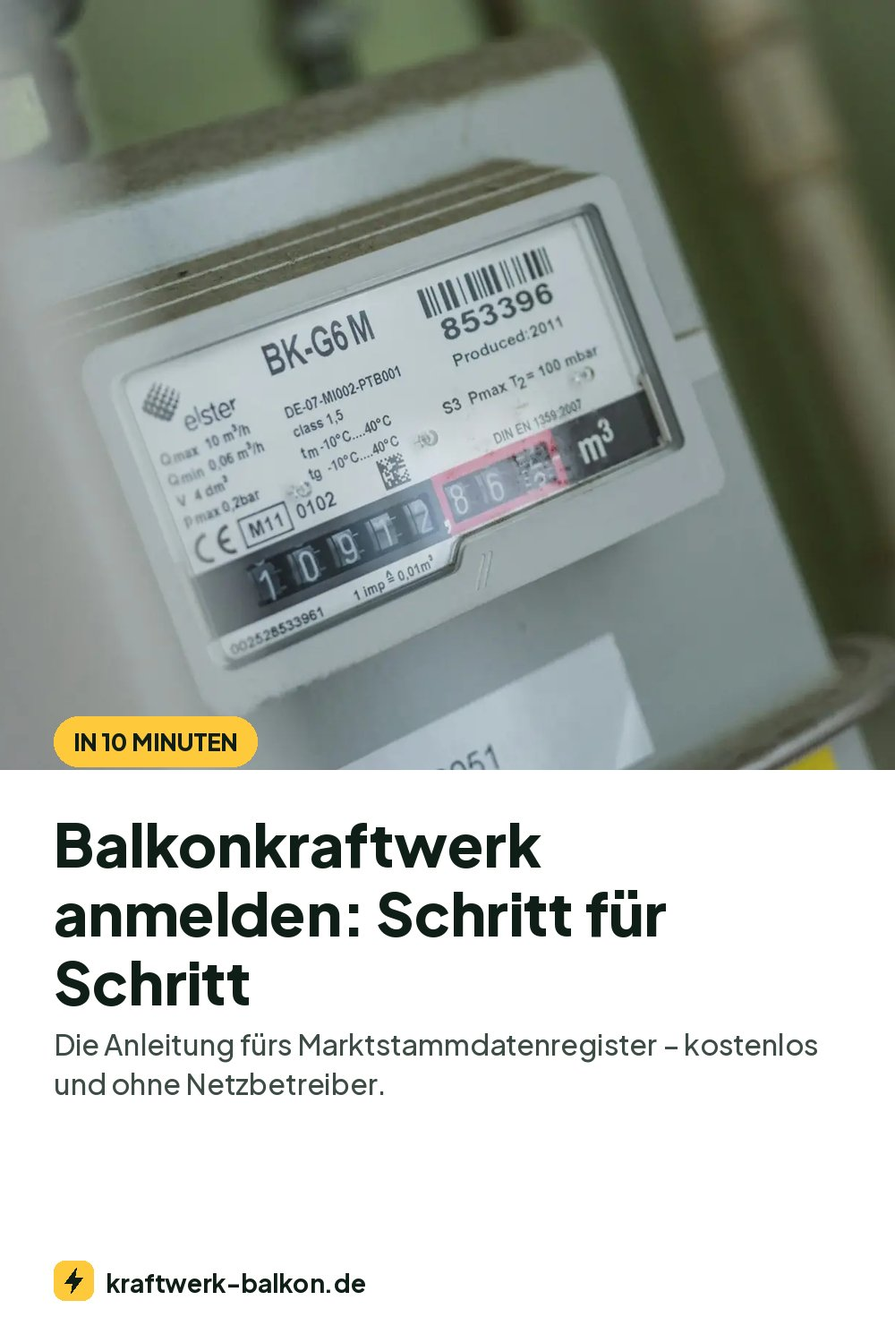
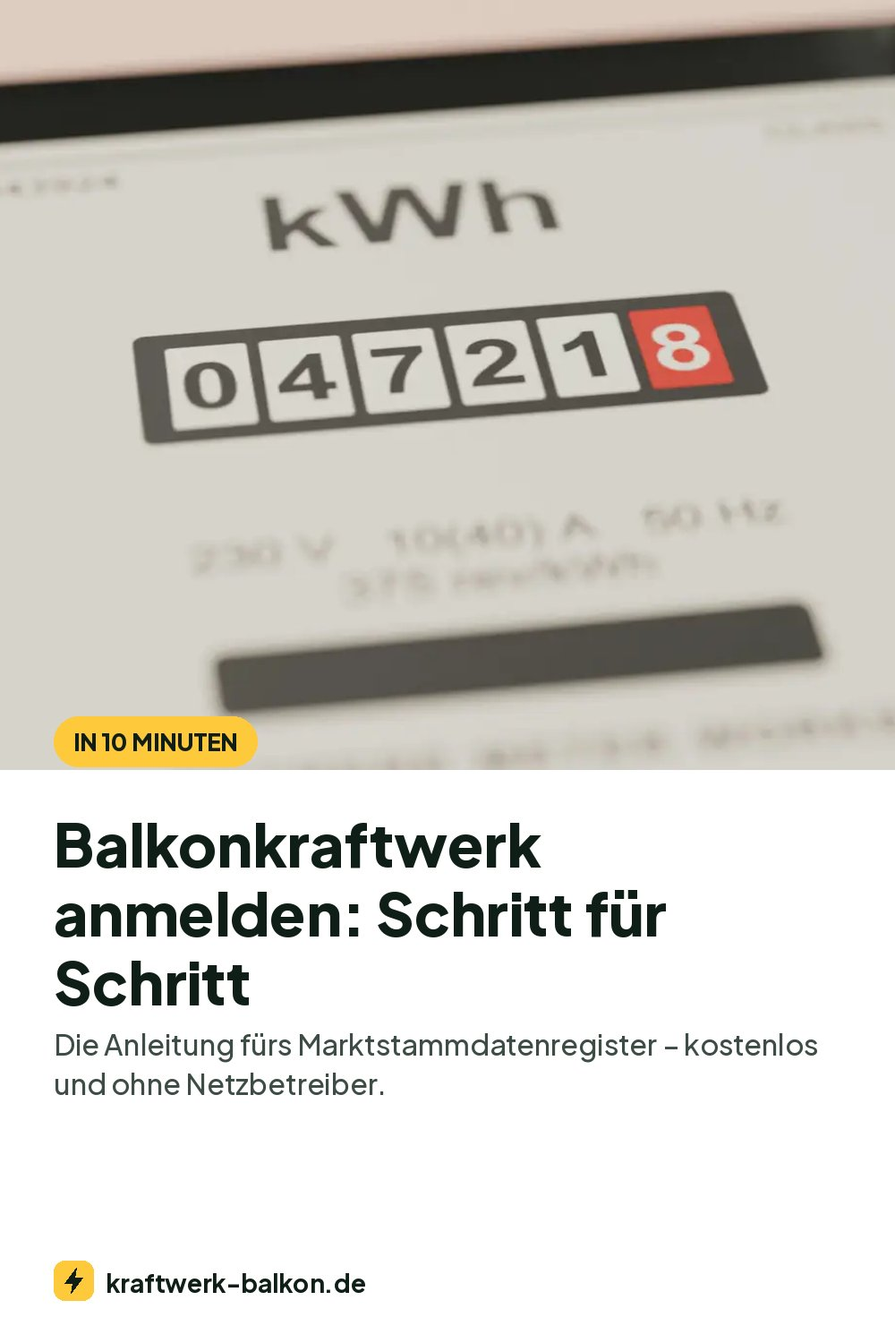
Gaszähler-Foto durch Stromzähler ersetzen; FB-Pin-Tool

diff --git a/ratgeber/balkonkraftwerk-anmelden/index.html b/ratgeber/balkonkraftwerk-anmelden/index.html
@@ -20,7 +20,7 @@
 <meta name="msvalidate.01" content="8213E6D86CA41A88346007C0F8A218E6">
 <link rel="icon" href="/images/favicon.svg" type="image/svg+xml">
 <link rel="preload" href="/fonts/plus-jakarta-sans-latin.woff2" as="font" type="font/woff2" crossorigin>
-<link rel="stylesheet" href="/css/style.css?v=202610292129">
+<link rel="stylesheet" href="/css/style.css?v=202610301719">
 <link rel="alternate" type="application/rss+xml" title="Balkonkraftwerk-News" href="/news/feed.xml">
 <script type="application/ld+json">{"@context": "https://schema.org", "@type": "Article", "headline": "Balkonkraftwerk anmelden 2026: Die MaStR-Anleitung in 10 Minuten", "description": "Balkonkraftwerk anmelden 2026: So registrierst du dein Steckersolargerät im Marktstammdatenregister – kostenlos, in 10 Minuten, ohne Netzbetreiber.", "image": "https://kraftwerk-balkon.de/images/foto/zaehler.webp", "datePublished": "2026-09-28", "dateModified": "2026-10-21", "inLanguage": "de-DE", "author": {"@type": "Person", "name": "Alexander Gerasch", "url": "https://kraftwerk-balkon.de/autor/"}, "publisher": {"@type": "Organization", "name": "Dein Kraftwerk", "url": "https://kraftwerk-balkon.de"}, "mainEntityOfPage": "https://kraftwerk-balkon.de/ratgeber/balkonkraftwerk-anmelden/"}</script>
 <script type="application/ld+json">{"@context": "https://schema.org", "@type": "BreadcrumbList", "itemListElement": [{"@type": "ListItem", "position": 1, "name": "Start", "item": "https://kraftwerk-balkon.de/"}, {"@type": "ListItem", "position": 2, "name": "Ratgeber", "item": "https://kraftwerk-balkon.de/ratgeber/"}, {"@type": "ListItem", "position": 3, "name": "Balkonkraftwerk anmelden 2026: Die MaStR-Anleitung in 10 Minuten", "item": "https://kraftwerk-balkon.de/ratgeber/balkonkraftwerk-anmelden/"}]}</script>
@@ -50,8 +50,8 @@
       <p class="lead">Die Anmeldepflicht schreckt viele ab – zu Unrecht. Die Registrierung im Marktstammdatenregister ist kostenlos, online und in etwa zehn Minuten erledigt. Hier ist der Ablauf, wie er heute gilt.</p>
       <div class="byline"><span class="avatar">AG</span><span><a href="/autor/" class="by-name">Alexander Gerasch</a> <span class="by-cred">· Autor der Buchreihe „Balkonkraftwerk“ (3 Bände)</span><br>veröffentlicht 28. September 2026 · aktualisiert 21. Oktober 2026 · 5 Min. Lesezeit · <a href='#quellen'>6 Quellen</a></span><span class="pill-ok">✓ Rechtsstand geprüft 21. Oktober 2026</span></div>
     </header>
-    <div class="art-hero"><img src="/images/foto/zaehler.webp" srcset="/images/foto/zaehler-800.webp 800w, /images/foto/zaehler.webp 1400w" sizes="(max-width: 1200px) 100vw, 1160px" width="1400" height="1050" alt="Digitaler Stromzähler" fetchpriority="high"></div>
-    <p class="credit">Foto: <a href="https://unsplash.com/de/fotos/text-Rlq0iN1b3Lg" target="_blank" rel="noopener">Unsplash</a></p>
+    <div class="art-hero"><img src="/images/foto/zaehler.webp" srcset="/images/foto/zaehler-800.webp 800w, /images/foto/zaehler.webp 1400w" sizes="(max-width: 1200px) 100vw, 1160px" width="1400" height="788" alt="Stromzähler mit kWh-Anzeige" fetchpriority="high"></div>
+    <p class="credit">Foto: <a href="https://unsplash.com/de/fotos/stromzahleranzeige-mit-kwh-zahlen-6cK-O-ac6Vs" target="_blank" rel="noopener">Unsplash</a></p>
     <div class="art-grid">
       <div class="prose">
         <p class="disclosure">Transparenz: Dieser Artikel enthält Affiliate-Links (mit „Anzeige“ markiert). Kaufst du darüber, erhalte ich eine kleine Provision – der Preis bleibt für dich gleich. Empfehlungen sind davon unabhängig.</p>
@@ -215,7 +215,7 @@
         <li><a href="/impressum/">Impressum</a></li>
         <li><a href="/datenschutz/">Datenschutz</a></li></ul></div>
     </div>
-    <div class="f-bottom"><span>© 2026 Alexander Gerasch · Fotos: Unsplash</span><span>Zuletzt aktualisiert: 29. Oktober 2026</span></div>
+    <div class="f-bottom"><span>© 2026 Alexander Gerasch · Fotos: Unsplash</span><span>Zuletzt aktualisiert: 30. Oktober 2026</span></div>
   </div>
 </footer>
 </body>

diff --git a/ratgeber/balkonkraftwerk-regeln-2026/index.html b/ratgeber/balkonkraftwerk-regeln-2026/index.html
@@ -20,7 +20,7 @@
 <meta name="msvalidate.01" content="8213E6D86CA41A88346007C0F8A218E6">
 <link rel="icon" href="/images/favicon.svg" type="image/svg+xml">
 <link rel="preload" href="/fonts/plus-jakarta-sans-latin.woff2" as="font" type="font/woff2" crossorigin>
-<link rel="stylesheet" href="/css/style.css?v=202610292129">
+<link rel="stylesheet" href="/css/style.css?v=202610301719">
 <link rel="alternate" type="application/rss+xml" title="Balkonkraftwerk-News" href="/news/feed.xml">
 <script type="application/ld+json">{"@context": "https://schema.org", "@type": "Article", "headline": "Balkonkraftwerk-Regeln 2026: Alles, was jetzt gilt", "description": "Die Balkonkraftwerk-Regeln 2026 auf einen Blick: 800 W und 2.000 Wp, Schuko-Norm DIN VDE V 0126-95, Anmeldung, Zähler, Mietrecht und Steuern – verständlich erklärt.", "image": "https://kraftwerk-balkon.de/images/foto/himmel.webp", "datePublished": "2026-10-16", "dateModified": "2026-10-21", "inLanguage": "de-DE", "author": {"@type": "Person", "name": "Alexander Gerasch", "url": "https://kraftwerk-balkon.de/autor/"}, "publisher": {"@type": "Organization", "name": "Dein Kraftwerk", "url": "https://kraftwerk-balkon.de"}, "mainEntityOfPage": "https://kraftwerk-balkon.de/ratgeber/balkonkraftwerk-regeln-2026/"}</script>
 <script type="application/ld+json">{"@context": "https://schema.org", "@type": "BreadcrumbList", "itemListElement": [{"@type": "ListItem", "position": 1, "name": "Start", "item": "https://kraftwerk-balkon.de/"}, {"@type": "ListItem", "position": 2, "name": "Ratgeber", "item": "https://kraftwerk-balkon.de/ratgeber/"}, {"@type": "ListItem", "position": 3, "name": "Balkonkraftwerk-Regeln 2026: Alles, was jetzt gilt", "item": "https://kraftwerk-balkon.de/ratgeber/balkonkraftwerk-regeln-2026/"}]}</script>
@@ -181,7 +181,7 @@
     </div>
   </div>
   <section class="sec sec-soft" style="margin-top:72px"><div class="wrap"><div class="sec-head"><h2>Weiterlesen</h2><a href="/ratgeber/" class="btn btn-ghost btn-sm">Alle Ratgeber <span class="arr">→</span></a></div><div class="cards"><a class="acard" href="/ratgeber/balkonkraftwerk-anmelden/">
-  <div class="thumb"><img src="/images/foto/zaehler.webp" srcset="/images/foto/zaehler-800.webp 800w, /images/foto/zaehler.webp 1400w" sizes="(max-width: 620px) 100vw, (max-width: 960px) 50vw, 380px" width="1400" height="1050" alt="Balkonkraftwerk anmelden 2026: Die MaStR-Anleitung in 10 Minuten" loading="lazy" decoding="async"></div>
+  <div class="thumb"><img src="/images/foto/zaehler.webp" srcset="/images/foto/zaehler-800.webp 800w, /images/foto/zaehler.webp 1400w" sizes="(max-width: 620px) 100vw, (max-width: 960px) 50vw, 380px" width="1400" height="788" alt="Balkonkraftwerk anmelden 2026: Die MaStR-Anleitung in 10 Minuten" loading="lazy" decoding="async"></div>
   <div class="body">
     <span class="kicker">Grundlagen &amp; Recht</span>
     <strong>Balkonkraftwerk anmelden 2026: Die MaStR-Anleitung in 10 Minuten</strong>
@@ -236,7 +236,7 @@
         <li><a href="/impressum/">Impressum</a></li>
         <li><a href="/datenschutz/">Datenschutz</a></li></ul></div>
     </div>
-    <div class="f-bottom"><span>© 2026 Alexander Gerasch · Fotos: Unsplash</span><span>Zuletzt aktualisiert: 29. Oktober 2026</span></div>
+    <div class="f-bottom"><span>© 2026 Alexander Gerasch · Fotos: Unsplash</span><span>Zuletzt aktualisiert: 30. Oktober 2026</span></div>
   </div>
 </footer>
 </body>

diff --git a/ratgeber/balkonkraftwerk-mieter-vermieter/index.html b/ratgeber/balkonkraftwerk-mieter-vermieter/index.html
@@ -20,7 +20,7 @@
 <meta name="msvalidate.01" content="8213E6D86CA41A88346007C0F8A218E6">
 <link rel="icon" href="/images/favicon.svg" type="image/svg+xml">
 <link rel="preload" href="/fonts/plus-jakarta-sans-latin.woff2" as="font" type="font/woff2" crossorigin>
-<link rel="stylesheet" href="/css/style.css?v=202610292129">
+<link rel="stylesheet" href="/css/style.css?v=202610301719">
 <link rel="alternate" type="application/rss+xml" title="Balkonkraftwerk-News" href="/news/feed.xml">
 <script type="application/ld+json">{"@context": "https://schema.org", "@type": "Article", "headline": "Balkonkraftwerk als Mieter: Deine Rechte und wie du den Vermieter fragst", "description": "Balkonkraftwerk als Mieter: Seit 2024 hast du einen Anspruch. Welche Auflagen der Vermieter machen darf, was veraltet ist – mit Vorlage und Urteilen.", "image": "https://kraftwerk-balkon.de/images/foto/mieter.webp", "datePublished": "2026-10-16", "dateModified": "2026-10-27", "inLanguage": "de-DE", "author": {"@type": "Person", "name": "Alexander Gerasch", "url": "https://kraftwerk-balkon.de/autor/"}, "publisher": {"@type": "Organization", "name": "Dein Kraftwerk", "url": "https://kraftwerk-balkon.de"}, "mainEntityOfPage": "https://kraftwerk-balkon.de/ratgeber/balkonkraftwerk-mieter-vermieter/"}</script>
 <script type="application/ld+json">{"@context": "https://schema.org", "@type": "BreadcrumbList", "itemListElement": [{"@type": "ListItem", "position": 1, "name": "Start", "item": "https://kraftwerk-balkon.de/"}, {"@type": "ListItem", "position": 2, "name": "Ratgeber", "item": "https://kraftwerk-balkon.de/ratgeber/"}, {"@type": "ListItem", "position": 3, "name": "Balkonkraftwerk als Mieter: Deine Rechte und wie du den Vermieter fragst", "item": "https://kraftwerk-balkon.de/ratgeber/balkonkraftwerk-mieter-vermieter/"}]}</script>
@@ -190,7 +190,7 @@
     <span class="meta"><span class="ok">✓ Stand Oktober 2026</span><span>3 Min.</span></span>
   </div>
 </a><a class="acard" href="/ratgeber/balkonkraftwerk-anmelden/">
-  <div class="thumb"><img src="/images/foto/zaehler.webp" srcset="/images/foto/zaehler-800.webp 800w, /images/foto/zaehler.webp 1400w" sizes="(max-width: 620px) 100vw, (max-width: 960px) 50vw, 380px" width="1400" height="1050" alt="Balkonkraftwerk anmelden 2026: Die MaStR-Anleitung in 10 Minuten" loading="lazy" decoding="async"></div>
+  <div class="thumb"><img src="/images/foto/zaehler.webp" srcset="/images/foto/zaehler-800.webp 800w, /images/foto/zaehler.webp 1400w" sizes="(max-width: 620px) 100vw, (max-width: 960px) 50vw, 380px" width="1400" height="788" alt="Balkonkraftwerk anmelden 2026: Die MaStR-Anleitung in 10 Minuten" loading="lazy" decoding="async"></div>
   <div class="body">
     <span class="kicker">Grundlagen &amp; Recht</span>
     <strong>Balkonkraftwerk anmelden 2026: Die MaStR-Anleitung in 10 Minuten</strong>
@@ -229,7 +229,7 @@
         <li><a href="/impressum/">Impressum</a></li>
         <li><a href="/datenschutz/">Datenschutz</a></li></ul></div>
     </div>
-    <div class="f-bottom"><span>© 2026 Alexander Gerasch · Fotos: Unsplash</span><span>Zuletzt aktualisiert: 29. Oktober 2026</span></div>
+    <div class="f-bottom"><span>© 2026 Alexander Gerasch · Fotos: Unsplash</span><span>Zuletzt aktualisiert: 30. Oktober 2026</span></div>
   </div>
 </footer>
 </body>

diff --git a/ratgeber/balkonkraftwerk-speicher-lohnt-sich/index.html b/ratgeber/balkonkraftwerk-speicher-lohnt-sich/index.html
@@ -20,7 +20,7 @@
 <meta name="msvalidate.01" content="8213E6D86CA41A88346007C0F8A218E6">
 <link rel="icon" href="/images/favicon.svg" type="image/svg+xml">
 <link rel="preload" href="/fonts/plus-jakarta-sans-latin.woff2" as="font" type="font/woff2" crossorigin>
-<link rel="stylesheet" href="/css/style.css?v=202610292129">
+<link rel="stylesheet" href="/css/style.css?v=202610301719">
 <link rel="alternate" type="application/rss+xml" title="Balkonkraftwerk-News" href="/news/feed.xml">
 <script type="application/ld+json">{"@context": "https://schema.org", "@type": "Article", "headline": "Balkonkraftwerk mit Speicher: Lohnt sich der Akku 2026?", "description": "Lohnt sich ein Speicher fürs Balkonkraftwerk? Ehrliche Rechnung, AC- oder DC-gekoppelt, Nulleinspeisung, Regeln und für wen sich der Akku wirklich rechnet.", "image": "https://kraftwerk-balkon.de/images/foto/speicher.webp", "datePublished": "2026-10-16", "dateModified": "2026-10-21", "inLanguage": "de-DE", "author": {"@type": "Person", "name": "Alexander Gerasch", "url": "https://kraftwerk-balkon.de/autor/"}, "publisher": {"@type": "Organization", "name": "Dein Kraftwerk", "url": "https://kraftwerk-balkon.de"}, "mainEntityOfPage": "https://kraftwerk-balkon.de/ratgeber/balkonkraftwerk-speicher-lohnt-sich/"}</script>
 <script type="application/ld+json">{"@context": "https://schema.org", "@type": "BreadcrumbList", "itemListElement": [{"@type": "ListItem", "position": 1, "name": "Start", "item": "https://kraftwerk-balkon.de/"}, {"@type": "ListItem", "position": 2, "name": "Ratgeber", "item": "https://kraftwerk-balkon.de/ratgeber/"}, {"@type": "ListItem", "position": 3, "name": "Balkonkraftwerk mit Speicher: Lohnt sich der Akku 2026?", "item": "https://kraftwerk-balkon.de/ratgeber/balkonkraftwerk-speicher-lohnt-sich/"}]}</script>
@@ -192,7 +192,7 @@
     <span class="meta"><span class="ok">✓ Stand Oktober 2026</span><span>3 Min.</span></span>
   </div>
 </a><a class="acard" href="/ratgeber/balkonkraftwerk-anmelden/">
-  <div class="thumb"><img src="/images/foto/zaehler.webp" srcset="/images/foto/zaehler-800.webp 800w, /images/foto/zaehler.webp 1400w" sizes="(max-width: 620px) 100vw, (max-width: 960px) 50vw, 380px" width="1400" height="1050" alt="Balkonkraftwerk anmelden 2026: Die MaStR-Anleitung in 10 Minuten" loading="lazy" decoding="async"></div>
+  <div class="thumb"><img src="/images/foto/zaehler.webp" srcset="/images/foto/zaehler-800.webp 800w, /images/foto/zaehler.webp 1400w" sizes="(max-width: 620px) 100vw, (max-width: 960px) 50vw, 380px" width="1400" height="788" alt="Balkonkraftwerk anmelden 2026: Die MaStR-Anleitung in 10 Minuten" loading="lazy" decoding="async"></div>
   <div class="body">
     <span class="kicker">Grundlagen &amp; Recht</span>
     <strong>Balkonkraftwerk anmelden 2026: Die MaStR-Anleitung in 10 Minuten</strong>
@@ -231,7 +231,7 @@
         <li><a href="/impressum/">Impressum</a></li>
         <li><a href="/datenschutz/">Datenschutz</a></li></ul></div>
     </div>
-    <div class="f-bottom"><span>© 2026 Alexander Gerasch · Fotos: Unsplash</span><span>Zuletzt aktualisiert: 29. Oktober 2026</span></div>
+    <div class="f-bottom"><span>© 2026 Alexander Gerasch · Fotos: Unsplash</span><span>Zuletzt aktualisiert: 30. Oktober 2026</span></div>
   </div>
 </footer>
 </body>

diff --git a/ratgeber/balkonkraftwerk-halterung-selber-bauen/index.html b/ratgeber/balkonkraftwerk-halterung-selber-bauen/index.html
@@ -20,7 +20,7 @@
 <meta name="msvalidate.01" content="8213E6D86CA41A88346007C0F8A218E6">
 <link rel="icon" href="/images/favicon.svg" type="image/svg+xml">
 <link rel="preload" href="/fonts/plus-jakarta-sans-latin.woff2" as="font" type="font/woff2" crossorigin>
-<link rel="stylesheet" href="/css/style.css?v=202610292129">
+<link rel="stylesheet" href="/css/style.css?v=202610301719">
 <link rel="alternate" type="application/rss+xml" title="Balkonkraftwerk-News" href="/news/feed.xml">
 <script type="application/ld+json">{"@context": "https://schema.org", "@type": "Article", "headline": "Balkonkraftwerk-Halterung selber bauen: Was sicher geht – und was nicht", "description": "Balkonkraftwerk-Halterung selber bauen für Geländer, Wand oder Flachdach: Was erlaubt ist, wo die Risiken liegen und wann du besser ein fertiges System kaufst.", "image": "https://kraftwerk-balkon.de/images/foto/montage.webp", "datePublished": "2026-10-19", "dateModified": "2026-10-19", "inLanguage": "de-DE", "author": {"@type": "Person", "name": "Alexander Gerasch", "url": "https://kraftwerk-balkon.de/autor/"}, "publisher": {"@type": "Organization", "name": "Dein Kraftwerk", "url": "https://kraftwerk-balkon.de"}, "mainEntityOfPage": "https://kraftwerk-balkon.de/ratgeber/balkonkraftwerk-halterung-selber-bauen/"}</script>
 <script type="application/ld+json">{"@context": "https://schema.org", "@type": "BreadcrumbList", "itemListElement": [{"@type": "ListItem", "position": 1, "name": "Start", "item": "https://kraftwerk-balkon.de/"}, {"@type": "ListItem", "position": 2, "name": "Ratgeber", "item": "https://kraftwerk-balkon.de/ratgeber/"}, {"@type": "ListItem", "position": 3, "name": "Balkonkraftwerk-Halterung selber bauen: Was sicher geht – und was nicht", "item": "https://kraftwerk-balkon.de/ratgeber/balkonkraftwerk-halterung-selber-bauen/"}]}</script>
@@ -210,7 +210,7 @@
         <li><a href="/impressum/">Impressum</a></li>
         <li><a href="/datenschutz/">Datenschutz</a></li></ul></div>
     </div>
-    <div class="f-bottom"><span>© 2026 Alexander Gerasch · Fotos: Unsplash</span><span>Zuletzt aktualisiert: 29. Oktober 2026</span></div>
+    <div class="f-bottom"><span>© 2026 Alexander Gerasch · Fotos: Unsplash</span><span>Zuletzt aktualisiert: 30. Oktober 2026</span></div>
   </div>
 </footer>
 </body>

diff --git a/ratgeber/balkonkraftwerk-smart-home-einstieg/index.html b/ratgeber/balkonkraftwerk-smart-home-einstieg/index.html
@@ -20,7 +20,7 @@
 <meta name="msvalidate.01" content="8213E6D86CA41A88346007C0F8A218E6">
 <link rel="icon" href="/images/favicon.svg" type="image/svg+xml">
 <link rel="preload" href="/fonts/plus-jakarta-sans-latin.woff2" as="font" type="font/woff2" crossorigin>
-<link rel="stylesheet" href="/css/style.css?v=202610292129">
+<link rel="stylesheet" href="/css/style.css?v=202610301719">
 <link rel="alternate" type="application/rss+xml" title="Balkonkraftwerk-News" href="/news/feed.xml">
 <script type="application/ld+json">{"@context": "https://schema.org", "@type": "Article", "headline": "Balkonkraftwerk und Smart Home: Der Einstieg mit Shelly und Home Assistant", "description": "Mehr Eigenverbrauch durch Automatisierung: So steuerst du Geräte nach Solarstrom – vom einfachen Shelly-Zeitplan bis Home Assistant und dynamischem Stromtarif.", "image": "https://kraftwerk-balkon.de/images/foto/smarthome.webp", "datePublished": "2026-10-16", "dateModified": "2026-10-16", "inLanguage": "de-DE", "author": {"@type": "Person", "name": "Alexander Gerasch", "url": "https://kraftwerk-balkon.de/autor/"}, "publisher": {"@type": "Organization", "name": "Dein Kraftwerk", "url": "https://kraftwerk-balkon.de"}, "mainEntityOfPage": "https://kraftwerk-balkon.de/ratgeber/balkonkraftwerk-smart-home-einstieg/"}</script>
 <script type="application/ld+json">{"@context": "https://schema.org", "@type": "BreadcrumbList", "itemListElement": [{"@type": "ListItem", "position": 1, "name": "Start", "item": "https://kraftwerk-balkon.de/"}, {"@type": "ListItem", "position": 2, "name": "Ratgeber", "item": "https://kraftwerk-balkon.de/ratgeber/"}, {"@type": "ListItem", "position": 3, "name": "Balkonkraftwerk und Smart Home: Der Einstieg mit Shelly und Home Assistant", "item": "https://kraftwerk-balkon.de/ratgeber/balkonkraftwerk-smart-home-einstieg/"}]}</script>
@@ -183,7 +183,7 @@
         <li><a href="/impressum/">Impressum</a></li>
         <li><a href="/datenschutz/">Datenschutz</a></li></ul></div>
     </div>
-    <div class="f-bottom"><span>© 2026 Alexander Gerasch · Fotos: Unsplash</span><span>Zuletzt aktualisiert: 29. Oktober 2026</span></div>
+    <div class="f-bottom"><span>© 2026 Alexander Gerasch · Fotos: Unsplash</span><span>Zuletzt aktualisiert: 30. Oktober 2026</span></div>
   </div>
 </footer>
 </body>

diff --git a/ratgeber/balkonkraftwerk-foerderung-2026/index.html b/ratgeber/balkonkraftwerk-foerderung-2026/index.html
@@ -20,7 +20,7 @@
 <meta name="msvalidate.01" content="8213E6D86CA41A88346007C0F8A218E6">
 <link rel="icon" href="/images/favicon.svg" type="image/svg+xml">
 <link rel="preload" href="/fonts/plus-jakarta-sans-latin.woff2" as="font" type="font/woff2" crossorigin>
-<link rel="stylesheet" href="/css/style.css?v=202610292129">
+<link rel="stylesheet" href="/css/style.css?v=202610301719">
 <link rel="alternate" type="application/rss+xml" title="Balkonkraftwerk-News" href="/news/feed.xml">
 <script type="application/ld+json">{"@context": "https://schema.org", "@type": "Article", "headline": "Balkonkraftwerk-Förderung 2026: Was es noch gibt – und was ausgelaufen ist", "description": "Balkonkraftwerk-Förderung 2026: Viele Programme sind ausgelaufen (Berlin, Sachsen). Was noch gilt, wo du suchen solltest und warum der Antrag vor dem Kauf zählt.", "image": "https://kraftwerk-balkon.de/images/foto/blumen.webp", "datePublished": "2026-10-16", "dateModified": "2026-10-26", "inLanguage": "de-DE", "author": {"@type": "Person", "name": "Alexander Gerasch", "url": "https://kraftwerk-balkon.de/autor/"}, "publisher": {"@type": "Organization", "name": "Dein Kraftwerk", "url": "https://kraftwerk-balkon.de"}, "mainEntityOfPage": "https://kraftwerk-balkon.de/ratgeber/balkonkraftwerk-foerderung-2026/"}</script>
 <script type="application/ld+json">{"@context": "https://schema.org", "@type": "BreadcrumbList", "itemListElement": [{"@type": "ListItem", "position": 1, "name": "Start", "item": "https://kraftwerk-balkon.de/"}, {"@type": "ListItem", "position": 2, "name": "Ratgeber", "item": "https://kraftwerk-balkon.de/ratgeber/"}, {"@type": "ListItem", "position": 3, "name": "Balkonkraftwerk-Förderung 2026: Was es noch gibt – und was ausgelaufen ist", "item": "https://kraftwerk-balkon.de/ratgeber/balkonkraftwerk-foerderung-2026/"}]}</script>
@@ -213,7 +213,7 @@
         <li><a href="/impressum/">Impressum</a></li>
         <li><a href="/datenschutz/">Datenschutz</a></li></ul></div>
     </div>
-    <div class="f-bottom"><span>© 2026 Alexander Gerasch · Fotos: Unsplash</span><span>Zuletzt aktualisiert: 29. Oktober 2026</span></div>
+    <div class="f-bottom"><span>© 2026 Alexander Gerasch · Fotos: Unsplash</span><span>Zuletzt aktualisiert: 30. Oktober 2026</span></div>
   </div>
 </footer>
 </body>

diff --git a/ratgeber/balkonkraftwerk-ausrichtung-ertrag/index.html b/ratgeber/balkonkraftwerk-ausrichtung-ertrag/index.html
@@ -20,7 +20,7 @@
 <meta name="msvalidate.01" content="8213E6D86CA41A88346007C0F8A218E6">
 <link rel="icon" href="/images/favicon.svg" type="image/svg+xml">
 <link rel="preload" href="/fonts/plus-jakarta-sans-latin.woff2" as="font" type="font/woff2" crossorigin>
-<link rel="stylesheet" href="/css/style.css?v=202610292129">
+<link rel="stylesheet" href="/css/style.css?v=202610301719">
 <link rel="alternate" type="application/rss+xml" title="Balkonkraftwerk-News" href="/news/feed.xml">
 <script type="application/ld+json">{"@context": "https://schema.org", "@type": "Article", "headline": "Ausrichtung und Neigung: So holst du mehr Ertrag aus deinem Balkonkraftwerk", "description": "Süd, Ost-West oder senkrecht? Wie Ausrichtung, Neigung und Verschattung den Ertrag deines Balkonkraftwerks beeinflussen – mit Richtwerten und Praxistipps.", "image": "https://kraftwerk-balkon.de/images/foto/flachdach.webp", "datePublished": "2026-10-16", "dateModified": "2026-10-26", "inLanguage": "de-DE", "author": {"@type": "Person", "name": "Alexander Gerasch", "url": "https://kraftwerk-balkon.de/autor/"}, "publisher": {"@type": "Organization", "name": "Dein Kraftwerk", "url": "https://kraftwerk-balkon.de"}, "mainEntityOfPage": "https://kraftwerk-balkon.de/ratgeber/balkonkraftwerk-ausrichtung-ertrag/"}</script>
 <script type="application/ld+json">{"@context": "https://schema.org", "@type": "BreadcrumbList", "itemListElement": [{"@type": "ListItem", "position": 1, "name": "Start", "item": "https://kraftwerk-balkon.de/"}, {"@type": "ListItem", "position": 2, "name": "Ratgeber", "item": "https://kraftwerk-balkon.de/ratgeber/"}, {"@type": "ListItem", "position": 3, "name": "Ausrichtung und Neigung: So holst du mehr Ertrag aus deinem Balkonkraftwerk", "item": "https://kraftwerk-balkon.de/ratgeber/balkonkraftwerk-ausrichtung-ertrag/"}]}</script>
@@ -188,7 +188,7 @@
         <li><a href="/impressum/">Impressum</a></li>
         <li><a href="/datenschutz/">Datenschutz</a></li></ul></div>
     </div>
-    <div class="f-bottom"><span>© 2026 Alexander Gerasch · Fotos: Unsplash</span><span>Zuletzt aktualisiert: 29. Oktober 2026</span></div>
+    <div class="f-bottom"><span>© 2026 Alexander Gerasch · Fotos: Unsplash</span><span>Zuletzt aktualisiert: 30. Oktober 2026</span></div>
   </div>
 </footer>
 </body>

diff --git a/ratgeber/balkonkraftwerk-im-garten/index.html b/ratgeber/balkonkraftwerk-im-garten/index.html
@@ -20,7 +20,7 @@
 <meta name="msvalidate.01" content="8213E6D86CA41A88346007C0F8A218E6">
 <link rel="icon" href="/images/favicon.svg" type="image/svg+xml">
 <link rel="preload" href="/fonts/plus-jakarta-sans-latin.woff2" as="font" type="font/woff2" crossorigin>
-<link rel="stylesheet" href="/css/style.css?v=202610292129">
+<link rel="stylesheet" href="/css/style.css?v=202610301719">
 <link rel="alternate" type="application/rss+xml" title="Balkonkraftwerk-News" href="/news/feed.xml">
 <script type="application/ld+json">{"@context": "https://schema.org", "@type": "Article", "headline": "Balkonkraftwerk im Garten aufstellen: Aufständerung, Kabel, Regeln", "description": "Balkonkraftwerk im Garten aufstellen: Welche Neigung sinnvoll ist, wie du Kabel sicher zur Steckdose führst, ob du eine Genehmigung brauchst und was bei Wind gilt.", "image": "https://kraftwerk-balkon.de/images/foto/garten.webp", "datePublished": "2026-10-26", "dateModified": "2026-10-26", "inLanguage": "de-DE", "author": {"@type": "Person", "name": "Alexander Gerasch", "url": "https://kraftwerk-balkon.de/autor/"}, "publisher": {"@type": "Organization", "name": "Dein Kraftwerk", "url": "https://kraftwerk-balkon.de"}, "mainEntityOfPage": "https://kraftwerk-balkon.de/ratgeber/balkonkraftwerk-im-garten/"}</script>
 <script type="application/ld+json">{"@context": "https://schema.org", "@type": "BreadcrumbList", "itemListElement": [{"@type": "ListItem", "position": 1, "name": "Start", "item": "https://kraftwerk-balkon.de/"}, {"@type": "ListItem", "position": 2, "name": "Ratgeber", "item": "https://kraftwerk-balkon.de/ratgeber/"}, {"@type": "ListItem", "position": 3, "name": "Balkonkraftwerk im Garten aufstellen: Aufständerung, Kabel, Regeln", "item": "https://kraftwerk-balkon.de/ratgeber/balkonkraftwerk-im-garten/"}]}</script>
@@ -225,7 +225,7 @@
         <li><a href="/impressum/">Impressum</a></li>
         <li><a href="/datenschutz/">Datenschutz</a></li></ul></div>
     </div>
-    <div class="f-bottom"><span>© 2026 Alexander Gerasch · Fotos: Unsplash</span><span>Zuletzt aktualisiert: 29. Oktober 2026</span></div>
+    <div class="f-bottom"><span>© 2026 Alexander Gerasch · Fotos: Unsplash</span><span>Zuletzt aktualisiert: 30. Oktober 2026</span></div>
   </div>
 </footer>
 </body>

diff --git a/ratgeber/balkonkraftwerk-kaufen-checkliste/index.html b/ratgeber/balkonkraftwerk-kaufen-checkliste/index.html
@@ -20,7 +20,7 @@
 <meta name="msvalidate.01" content="8213E6D86CA41A88346007C0F8A218E6">
 <link rel="icon" href="/images/favicon.svg" type="image/svg+xml">
 <link rel="preload" href="/fonts/plus-jakarta-sans-latin.woff2" as="font" type="font/woff2" crossorigin>
-<link rel="stylesheet" href="/css/style.css?v=202610292129">
+<link rel="stylesheet" href="/css/style.css?v=202610301719">
 <link rel="alternate" type="application/rss+xml" title="Balkonkraftwerk-News" href="/news/feed.xml">
 <script type="application/ld+json">{"@context": "https://schema.org", "@type": "Article", "headline": "Balkonkraftwerk kaufen: Die Checkliste mit 10 Punkten", "description": "Balkonkraftwerk kaufen 2026: 10 Punkte, auf die du vor dem Kauf achten solltest: Leistung, Stecker, Wechselrichter, Halterung, Speicher und typische Fehlkäufe.", "image": "https://kraftwerk-balkon.de/images/foto/balkon2.webp", "datePublished": "2026-10-16", "dateModified": "2026-10-26", "inLanguage": "de-DE", "author": {"@type": "Person", "name": "Alexander Gerasch", "url": "https://kraftwerk-balkon.de/autor/"}, "publisher": {"@type": "Organization", "name": "Dein Kraftwerk", "url": "https://kraftwerk-balkon.de"}, "mainEntityOfPage": "https://kraftwerk-balkon.de/ratgeber/balkonkraftwerk-kaufen-checkliste/"}</script>
 <script type="application/ld+json">{"@context": "https://schema.org", "@type": "BreadcrumbList", "itemListElement": [{"@type": "ListItem", "position": 1, "name": "Start", "item": "https://kraftwerk-balkon.de/"}, {"@type": "ListItem", "position": 2, "name": "Ratgeber", "item": "https://kraftwerk-balkon.de/ratgeber/"}, {"@type": "ListItem", "position": 3, "name": "Balkonkraftwerk kaufen: Die Checkliste mit 10 Punkten", "item": "https://kraftwerk-balkon.de/ratgeber/balkonkraftwerk-kaufen-checkliste/"}]}</script>
@@ -218,7 +218,7 @@
         <li><a href="/impressum/">Impressum</a></li>
         <li><a href="/datenschutz/">Datenschutz</a></li></ul></div>
     </div>
-    <div class="f-bottom"><span>© 2026 Alexander Gerasch · Fotos: Unsplash</span><span>Zuletzt aktualisiert: 29. Oktober 2026</span></div>
+    <div class="f-bottom"><span>© 2026 Alexander Gerasch · Fotos: Unsplash</span><span>Zuletzt aktualisiert: 30. Oktober 2026</span></div>
   </div>
 </footer>
 </body>

diff --git a/ratgeber/schuko-oder-wieland/index.html b/ratgeber/schuko-oder-wieland/index.html
@@ -20,7 +20,7 @@
 <meta name="msvalidate.01" content="8213E6D86CA41A88346007C0F8A218E6">
 <link rel="icon" href="/images/favicon.svg" type="image/svg+xml">
 <link rel="preload" href="/fonts/plus-jakarta-sans-latin.woff2" as="font" type="font/woff2" crossorigin>
-<link rel="stylesheet" href="/css/style.css?v=202610292129">
+<link rel="stylesheet" href="/css/style.css?v=202610301719">
 <link rel="alternate" type="application/rss+xml" title="Balkonkraftwerk-News" href="/news/feed.xml">
 <script type="application/ld+json">{"@context": "https://schema.org", "@type": "Article", "headline": "Schuko oder Wieland? Der richtige Stecker fürs Balkonkraftwerk", "description": "Schuko-Stecker oder Wieland-Steckdose? Was die Norm DIN VDE V 0126-95 seit Dezember 2025 regelt, was die 960-Wp-Grenze bedeutet und was für alte Anlagen gilt.", "image": "https://kraftwerk-balkon.de/images/foto/stecker.webp", "datePublished": "2026-10-16", "dateModified": "2026-10-21", "inLanguage": "de-DE", "author": {"@type": "Person", "name": "Alexander Gerasch", "url": "https://kraftwerk-balkon.de/autor/"}, "publisher": {"@type": "Organization", "name": "Dein Kraftwerk", "url": "https://kraftwerk-balkon.de"}, "mainEntityOfPage": "https://kraftwerk-balkon.de/ratgeber/schuko-oder-wieland/"}</script>
 <script type="application/ld+json">{"@context": "https://schema.org", "@type": "BreadcrumbList", "itemListElement": [{"@type": "ListItem", "position": 1, "name": "Start", "item": "https://kraftwerk-balkon.de/"}, {"@type": "ListItem", "position": 2, "name": "Ratgeber", "item": "https://kraftwerk-balkon.de/ratgeber/"}, {"@type": "ListItem", "position": 3, "name": "Schuko oder Wieland? Der richtige Stecker fürs Balkonkraftwerk", "item": "https://kraftwerk-balkon.de/ratgeber/schuko-oder-wieland/"}]}</script>
@@ -230,7 +230,7 @@
         <li><a href="/impressum/">Impressum</a></li>
         <li><a href="/datenschutz/">Datenschutz</a></li></ul></div>
     </div>
-    <div class="f-bottom"><span>© 2026 Alexander Gerasch · Fotos: Unsplash</span><span>Zuletzt aktualisiert: 29. Oktober 2026</span></div>
+    <div class="f-bottom"><span>© 2026 Alexander Gerasch · Fotos: Unsplash</span><span>Zuletzt aktualisiert: 30. Oktober 2026</span></div>
   </div>
 </footer>
 </body>

diff --git a/ratgeber/balkonkraftwerk-lohnt-sich/index.html b/ratgeber/balkonkraftwerk-lohnt-sich/index.html
@@ -20,7 +20,7 @@
 <meta name="msvalidate.01" content="8213E6D86CA41A88346007C0F8A218E6">
 <link rel="icon" href="/images/favicon.svg" type="image/svg+xml">
 <link rel="preload" href="/fonts/plus-jakarta-sans-latin.woff2" as="font" type="font/woff2" crossorigin>
-<link rel="stylesheet" href="/css/style.css?v=202610292129">
+<link rel="stylesheet" href="/css/style.css?v=202610301719">
 <link rel="alternate" type="application/rss+xml" title="Balkonkraftwerk-News" href="/news/feed.xml">
 <script type="application/ld+json">{"@context": "https://schema.org", "@type": "Article", "headline": "Lohnt sich ein Balkonkraftwerk? Die ehrliche Rechnung 2026", "description": "Lohnt sich ein Balkonkraftwerk 2026? Ertrag, Eigenverbrauch, Ersparnis und Amortisation mit nachvollziehbaren Zahlen – plus Rechner für deinen Balkon.", "image": "https://kraftwerk-balkon.de/images/foto/wand.webp", "datePublished": "2026-10-16", "dateModified": "2026-10-21", "inLanguage": "de-DE", "author": {"@type": "Person", "name": "Alexander Gerasch", "url": "https://kraftwerk-balkon.de/autor/"}, "publisher": {"@type": "Organization", "name": "Dein Kraftwerk", "url": "https://kraftwerk-balkon.de"}, "mainEntityOfPage": "https://kraftwerk-balkon.de/ratgeber/balkonkraftwerk-lohnt-sich/"}</script>
 <script type="application/ld+json">{"@context": "https://schema.org", "@type": "BreadcrumbList", "itemListElement": [{"@type": "ListItem", "position": 1, "name": "Start", "item": "https://kraftwerk-balkon.de/"}, {"@type": "ListItem", "position": 2, "name": "Ratgeber", "item": "https://kraftwerk-balkon.de/ratgeber/"}, {"@type": "ListItem", "position": 3, "name": "Lohnt sich ein Balkonkraftwerk? Die ehrliche Rechnung 2026", "item": "https://kraftwerk-balkon.de/ratgeber/balkonkraftwerk-lohnt-sich/"}]}</script>
@@ -231,7 +231,7 @@
         <li><a href="/impressum/">Impressum</a></li>
         <li><a href="/datenschutz/">Datenschutz</a></li></ul></div>
     </div>
-    <div class="f-bottom"><span>© 2026 Alexander Gerasch · Fotos: Unsplash</span><span>Zuletzt aktualisiert: 29. Oktober 2026</span></div>
+    <div class="f-bottom"><span>© 2026 Alexander Gerasch · Fotos: Unsplash</span><span>Zuletzt aktualisiert: 30. Oktober 2026</span></div>
   </div>
 </footer>
 </body>
